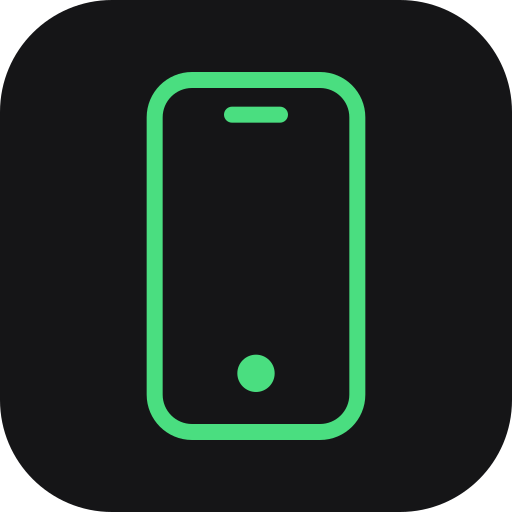
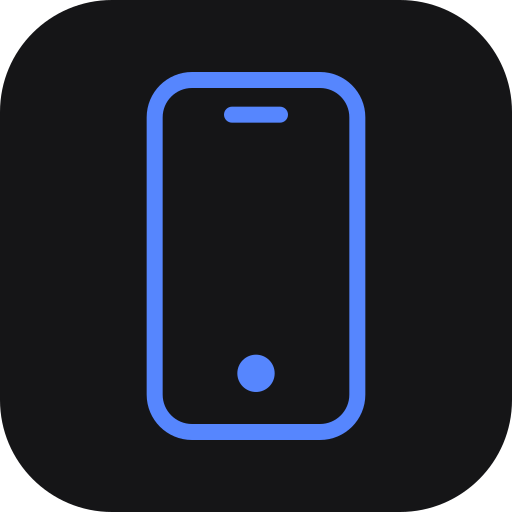
fix(app): completa los arreglos de la revision de diseno
Restos que quedaron de la revision anterior, comprobados uno a uno:

- faltaba la regla .option:hover: el hover generico ya estaba excluido, pero la
  opcion no tenia hover propio, asi que al pasar el puntero no cambiaba nada
- .card p ganaba por especificidad a .error y .question-text, que quedaban sin
  efecto; se excluyen en el selector
- Montserrat 300 estaba declarada y nunca se cargaba: fuera la declaracion y el
  archivo, 60 kB que no se usaban
- isImmutable quedaba como export muerto; la comprobacion de cache pasa a usar
  solo el nombre del archivo, sin cuantificador anidado sobre la ruta entera, que
  producia retroceso superlineal
- el extractor perdia el ultimo alias si la declaracion no llevaba punto y coma,
  como pasa en CSS minificado; ahora cada bloque se cierra al extraerlo
- el icono conservaba el verde #4ade80, que ya no existe en la paleta; pasa al
  azul de marca de DSH y se regeneran los PNG
- pnpm smoke escribia en el log real del plugin; ahora lo desactiva antes de
  importar
- el extractor lleva NOSONAR en la lectura de la ruta con su motivo: la escribe
  quien ejecuta la herramienta en su maquina, no hay entrada no confiable

Changed region(s): [[0.2812, 0.125, 0.7188, 0.875], [0.4375, 0.6875, 0.5625, 0.7812]]

diff --git a/packages/companion/src/routes/static.ts b/packages/companion/src/routes/static.ts
@@ -43,28 +43,33 @@ function contentTypeFor(file: string): string {
  *
  * - Assets con hash en el nombre (los emite Vite): inmutables para siempre.
  * - Fuentes: nombres estables, sin hash. Un día de caché reduce la descarga
- *   repetida de ~180 KB sin arriesgar quedarse con una fuente vieja para siempre.
+ *   repetida de ~120 KB sin arriesgar quedarse con una fuente vieja para siempre.
  * - Todo lo demás, incluido `index.html`: revalidar siempre, o una actualización
  *   del plugin dejaría al móvil con la versión anterior pegada.
+ *
+ * La comprobación evita un cuantificador anidado sobre la ruta completa —eso
+ * produce retroceso superlineal— y trabaja solo sobre el nombre del archivo.
  */
 export function cacheControlFor(urlPath: string): string {
   const normalized = urlPath.split('?')[0]?.replace(/\\/g, '/') ?? '';
 
-  if (/\/assets\/[^/]+-[A-Za-z0-9_-]{8,}\.[a-z0-9]+$/i.test(normalized)) {
-    return 'public, max-age=31536000, immutable';
+  if (normalized.startsWith('/assets/')) {
+    const name = normalized.slice(normalized.lastIndexOf('/') + 1);
+    if (HASHED_ASSET.test(name)) return 'public, max-age=31536000, immutable';
   }
 
-  if (/^\/fonts\/[^/]+\.(woff2?|ttf)$/i.test(normalized)) {
+  if (normalized.startsWith('/fonts/') && FONT_FILE.test(normalized.slice(7))) {
     return 'public, max-age=86400';
   }
 
   return 'no-cache';
 }
 
-/** `true` si el recurso merece caché larga e inmutable. */
-export function isImmutable(urlPath: string): boolean {
-  return cacheControlFor(urlPath).includes('immutable');
-}
+/** `nombre-<hash>.ext`, que es como Vite nombra lo que puede cachearse. */
+const HASHED_ASSET = /^[\w.-]+-[A-Za-z0-9_-]{8,}\.[a-z0-9]+$/;
+
+/** Una fuente dentro de `/fonts/`, sin subdirectorios. */
+const FONT_FILE = /^[^/]+\.(woff2?|ttf)$/i;
 
 function headersFor(file: string, size: number, cacheControl: string): Record<string, string> {
   return {

diff --git a/packages/app/src/styles.css b/packages/app/src/styles.css
@@ -14,14 +14,6 @@
 @font-face {
   font-family: 'Montserrat';
   font-style: normal;
-  font-weight: 300;
-  font-display: swap;
-  src: url(/fonts/montserrat-light.woff2) format('woff2');
-}
-
-@font-face {
-  font-family: 'Montserrat';
-  font-style: normal;
   font-weight: 400;
   font-display: swap;
   src: url(/fonts/montserrat-regular.woff2) format('woff2');
@@ -146,7 +138,9 @@ body {
   font-weight: 500;
 }
 
-.card p {
+/* :not() para no pisar .error ni .question-text, que tienen menos
+   especificidad y quedaban sin efecto. */
+.card p:not(.error):not(.question-text) {
   margin: 0 0 16px;
   line-height: 1.5;
   color: var(--muted);
@@ -368,6 +362,14 @@ button.ghost:hover:not(:disabled) {
   color: var(--text-secondary);
   border-color: var(--line-strong);
   font-weight: 400;
+}
+
+/* Hover propio: el genérico de `button` se excluye a propósito, porque su
+   especificidad ganaba y dejaba la opción con fondo claro y texto gris. */
+.option:not(.chosen):hover:not(:disabled) {
+  background: var(--hover);
+  border-color: var(--line-emphasis);
+  color: var(--text);
 }
 
 .option.chosen {
